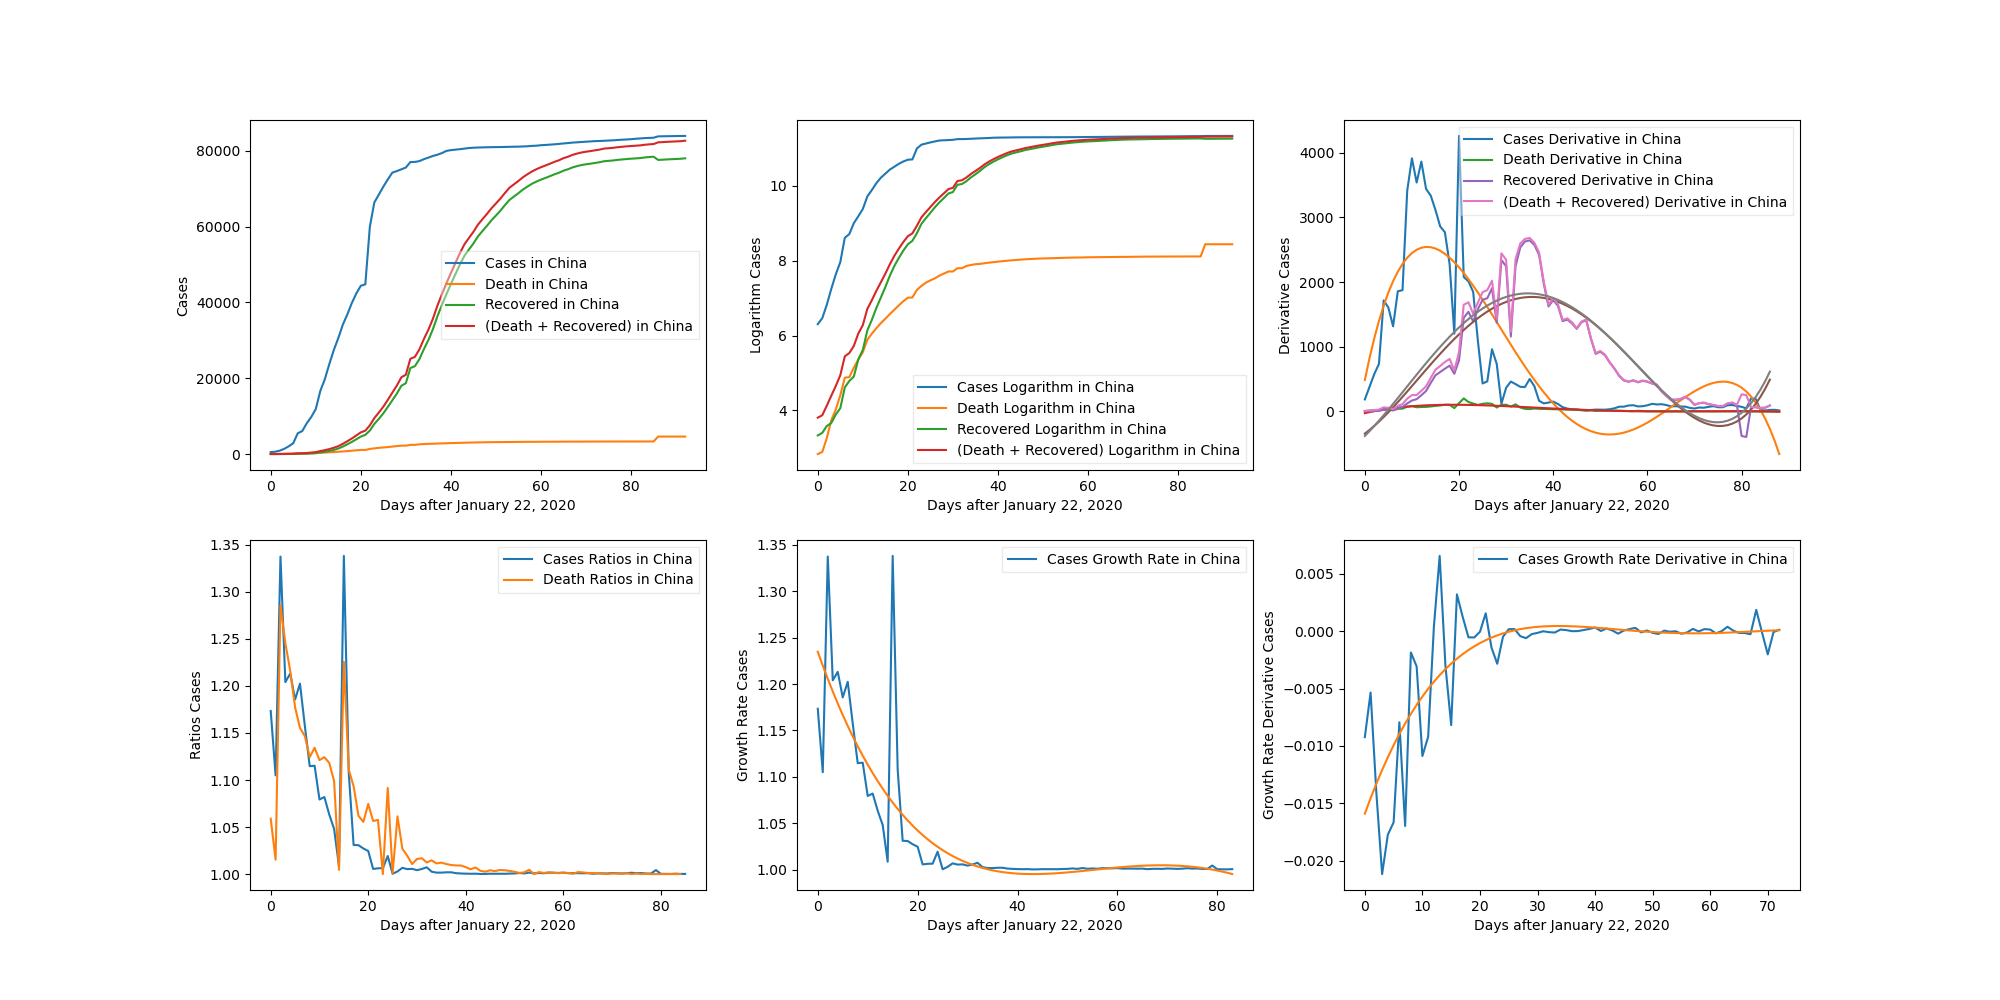
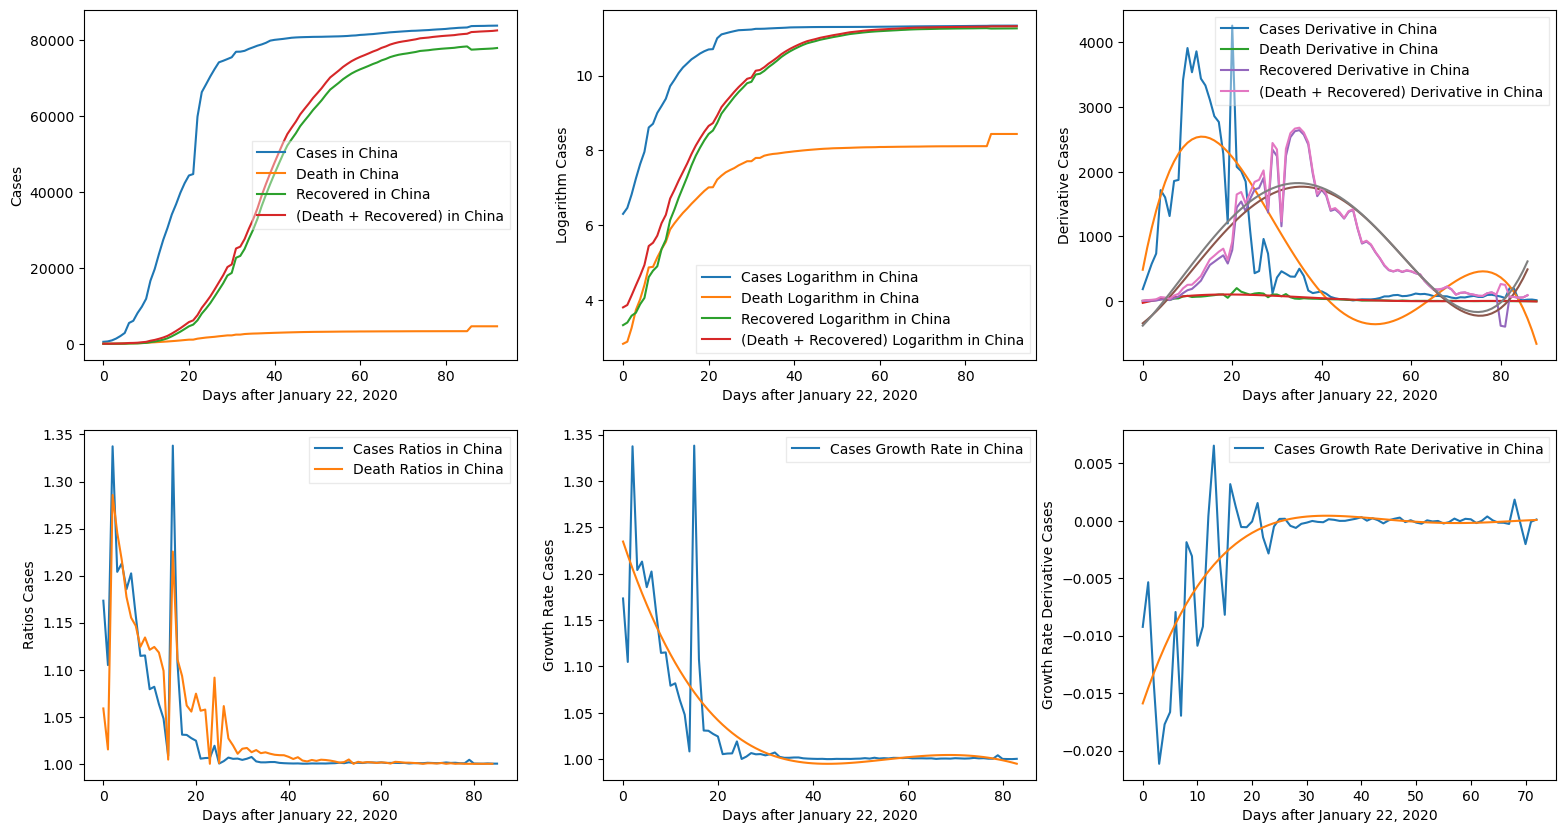
removed margins in analyze images

diff --git a/visual_analyze.py b/visual_analyze.py
@@ -62,7 +62,7 @@ for country in countries:
     if 'recovered' in d:
         plot_with_tranforms(d['death'] + d['recovered'], '(death + recovered)', transforms, names)
 
-    fig.set_size_inches(20, 10)
+    fig.set_size_inches(19, 10)
 
     for ax in axs:
         for a in ax:
@@ -72,6 +72,6 @@ for country in countries:
     p = "res/imgs/plots/" + country.lower().replace(" ", "_")
     if not os.path.exists(p):
         os.mkdir(p)
-    fig.savefig(p + "/analyze.png")  
+    fig.savefig(p + "/analyze.png", bbox_inches='tight')  
 
     plt.show()
